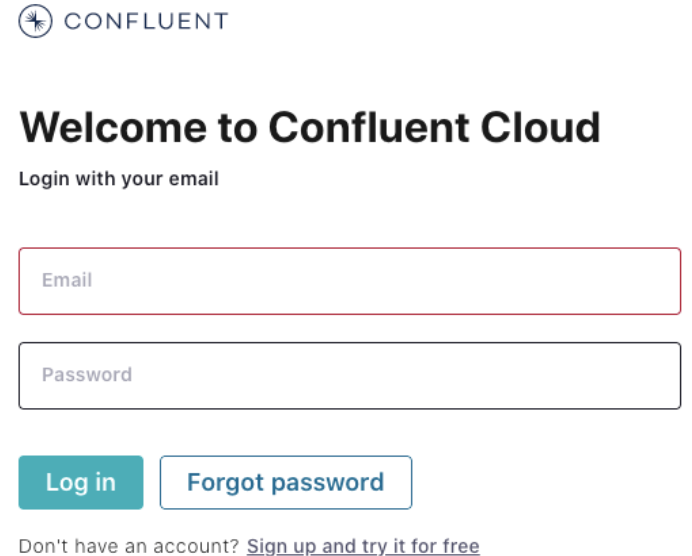
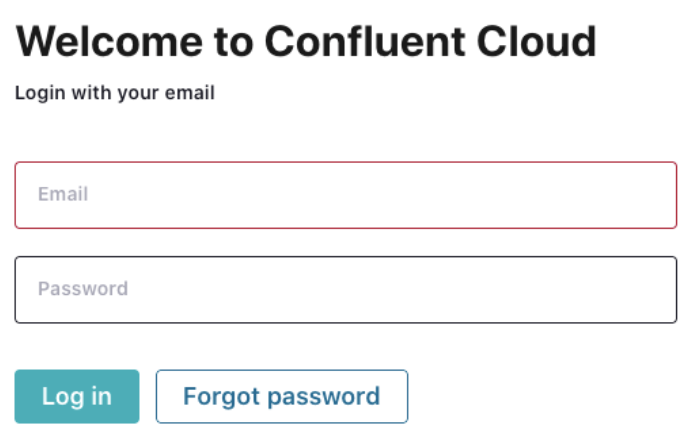
md to img tags

diff --git a/README.md b/README.md
@@ -1,5 +1,4 @@
-<!-- ![Confluent](images/confluent.png) -->
-<div align="center">
+<div align="center" padding=25px>
 <img src="images/confluent.png" width=50% height=50%>
 </div>
 
@@ -22,9 +21,7 @@
 12. [Clean Up Resources](#step-12)
 13. [Confluent Resources and Further Testing](#step-13)
 
-<br></br>
 ***
-<br></br>
 
 ## **Prerequisites**
 <br>
@@ -35,11 +32,11 @@
 
 > **Note:** We will create resources during this workshop that will incur costs. When you sign up for a Confluent Cloud account, you will get up to $200 per month deducted from your Confluent Cloud statement for the first three months. This will cover the cost of resources created during the workshop. 
 
-![billing | width=100px | height=100px](images/billing.png)
+<div align="center" padding=25px>
+    <img src="images/billing.png" width=75% height=75%>
+</div>
 
-<br></br>
 ***
-<br></br>
 
 ## **Objective**
 
@@ -55,22 +52,20 @@ We have now established data flow to and from Confluent Cloud with the help of t
 
 By the conclusion of the workshop, you will have learned how to leverage ksqlDB to perform continuous transformations, create materialized views, and serve lookups against these materialized views all with the data you already have in Confluent Cloud.
 
-<br></br>
 ***
-<br></br>
 
 
 ## <a name="step-1"></a>Log into Confluent Cloud
 
 1. Log into [Confluent Cloud](https://confluent.cloud) and enter your email and password.
 
-![login](images/login.png)
+<div align="center" padding=25px>
+    <img src="images/login.png" width=50% height=50%>
+</div>
 
 2. If you are logging in for the first time, you will see a self-guided wizard that walks you through spinning up a cluster. Please minimize this as we will walk through those steps in this workshop. 
 
-<br></br>
 ***
-<br></br>
 
 ## <a name="step-2"></a>Create an Environment and Kafka Cluster
 
@@ -80,7 +75,9 @@ An environment contains Kafka clusters and its deployed components such as Conne
 
 >**Note:** There is a *default* environment ready in your account upon account creation. You can use this *default* environment for the purpose of this workshop if you do not wish to create an additional environment.
 
-![environment](images/environment.png)
+<div align="center" padding=25px>
+    <img src="images/environment.png" width=50% height=50%>
+</div>
 
 2. Now that we have an environment, click **Create Cluster**. 
 
@@ -88,7 +85,9 @@ An environment contains Kafka clusters and its deployed components such as Conne
 
 3. Chose the **Basic** cluster type. 
 
-![cluster-type](images/cluster-type.png)
+<div align="center" padding=25px>
+    <img src="images/cluster-type.png" width=50% height=50%>
+</div>
 
 4. Click **Begin Configuration**. 
 5. Choose your preferred Cloud Provider (AWS, GCP, or Azure), region, and availability zone. 
